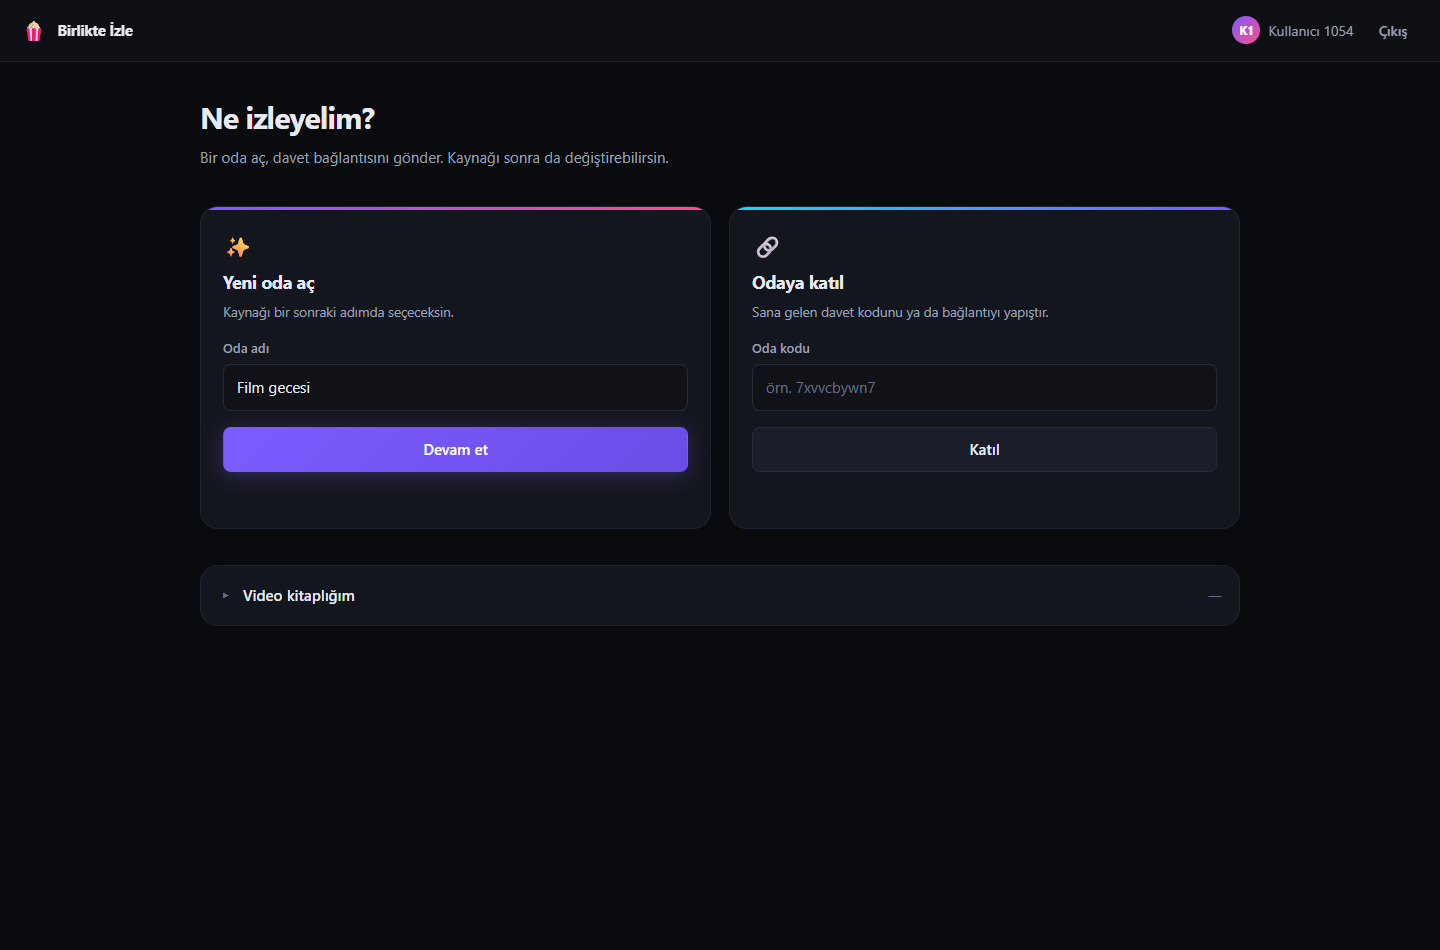
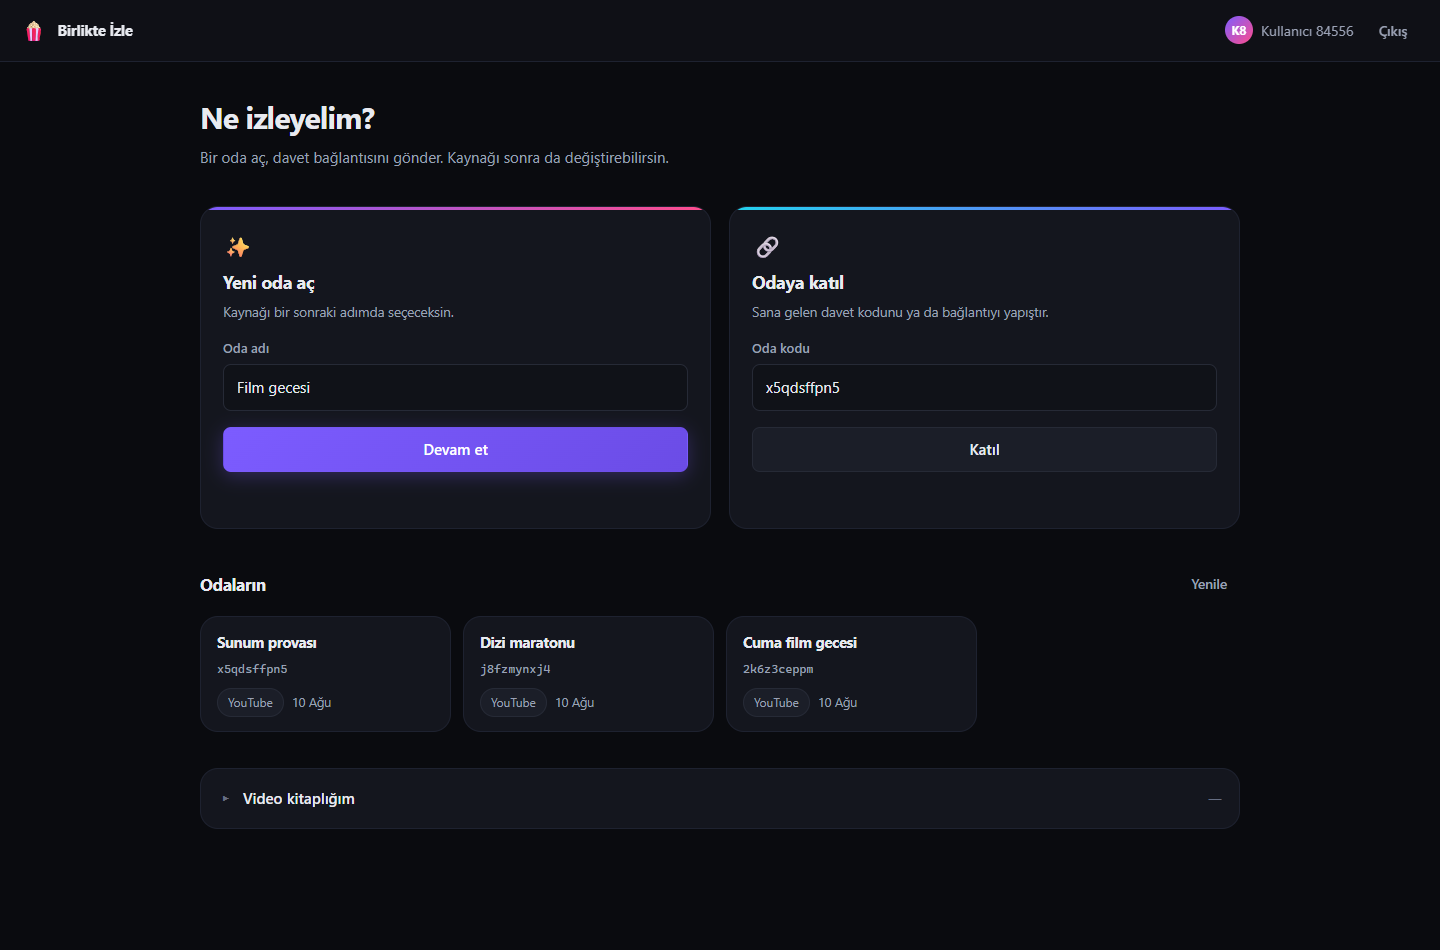
Ana ekranda oda listesi; saat testi ortamdan bağımsız hale getirildi
GET /api/rooms uçtan uca hazırdı ama arayüz onu hiç kullanmıyordu. Ana ekranın
altındaki boşluğa kullanıcının odaları geldi; karta tıklayınca doğrudan giriliyor.

Tarayıcı testindeki saat senkronu senaryosu |offset| < 500ms iddiasıyla ortamı
test ediyordu: Docker Desktop yeni açıldığında VM saati host'un ~1 saniye
gerisinde kalıyor ve senaryo düşüyordu. Ölçüm doğruydu, iddia yanlıştı --
mekanizma zaten keyfi kaymayı tolere etmek için var. Mutlak sınır yalnızca
saçma değerleri yakalayacak kadar gevşetildi; yerine ortamdan bağımsız gerçek
değişmez kondu: aynı sunucuyla konuşan iki sekmenin ölçtüğü offset birbirini
tutmalı (ölçülen fark 92ms).

browser-test 17 -> 19, toplam 79. README'de 15 kalmış eski sayı da düzeltildi.

diff --git a/public/app.js b/public/app.js
@@ -216,6 +216,7 @@ function enterHome() {
   $('who-avatar').textContent = initials(me.displayName);
   showScreen('home');
   void refreshVideos();
+  void refreshRooms();
 }
 
 $('btn-register').onclick = async () => {
@@ -331,13 +332,17 @@ $('btn-source-go').onclick = async () => {
   } catch (e) { setStatus('source-status', e.message, 'err'); }
 };
 
+async function enterRoom(s) {
+  await api('POST', `/api/rooms/${s}/join`);   // üyeysen zaten geçiyor
+  const { room } = await api('GET', `/api/rooms/${s}`);
+  await connect(s, room.name);
+}
+
 $('btn-join').onclick = async () => {
   const s = $('room-slug').value.trim();
   if (!s) return setStatus('room-status', 'Oda kodu gerekli', 'err');
   try {
-    await api('POST', `/api/rooms/${s}/join`);
-    const { room } = await api('GET', `/api/rooms/${s}`);
-    await connect(s, room.name);
+    await enterRoom(s);
   } catch (e) { setStatus('room-status', e.message, 'err'); }
 };
 
@@ -351,6 +356,7 @@ $('btn-leave').onclick = () => {
   $('video-strip').classList.add('is-hidden');
   slug = ''; state = null; seenVersion = 0;
   showScreen('home');
+  void refreshRooms();
 };
 
 // ═══════════════════════════════════════════════════════════ WebSocket
@@ -877,6 +883,40 @@ async function refreshVideos() {
     }
   } catch { /* oturum yoksa sessiz geç */ }
 }
+
+// ═══════════════════════════════════════════════════════════════ Odaların
+const SOURCE_LABEL = { youtube: 'YouTube', hls: 'Video' };
+
+function shortDate(iso) {
+  const d = new Date(iso);
+  return Number.isNaN(+d) ? '' : d.toLocaleDateString('tr-TR', { day: 'numeric', month: 'short' });
+}
+
+async function refreshRooms() {
+  try {
+    const { rooms } = await api('GET', '/api/rooms');
+    $('rooms-list').innerHTML = rooms.length === 0
+      ? '<li class="empty">Henüz odan yok — yukarıdan bir tane aç</li>'
+      : rooms.map((r) => `
+          <li class="room-card" data-enter="${escapeHtml(r.slug)}">
+            <strong>${escapeHtml(r.name)}</strong>
+            <span class="mono muted">${escapeHtml(r.slug)}</span>
+            <div class="room-meta">
+              <span class="chip">${SOURCE_LABEL[r.sourceType] ?? r.sourceType}</span>
+              <span class="muted small">${shortDate(r.createdAt)}</span>
+            </div>
+          </li>`).join('');
+
+    for (const li of $('rooms-list').querySelectorAll('[data-enter]')) {
+      li.onclick = async () => {
+        try { await enterRoom(li.getAttribute('data-enter')); }
+        catch (e) { setStatus('room-status', e.message, 'err'); }
+      };
+    }
+  } catch { /* oturum yoksa sessiz geç */ }
+}
+
+$('btn-rooms-refresh').onclick = () => void refreshRooms();
 
 async function useVideoInRoom(videoId) {
   if (!slug) return setStatus('upload-status', 'Önce bir odaya gir', 'err');

diff --git a/scripts/browser-test.ts b/scripts/browser-test.ts
@@ -220,7 +220,12 @@ try {
     const rtt = parseMs(await readCell(pageA, 't-rtt'));
     assert(Number.isFinite(offset), 'offset okunamadı');
     assert(Number.isFinite(rtt) && rtt >= 0, `RTT geçersiz: ${rtt}`);
-    assert(Math.abs(offset) < 500, `offset beklenenden büyük: ${offset}ms`);
+    // Offset'in mutlak büyüklüğüne dar bir sınır koymak ortamı test etmek olur:
+    // Docker Desktop'ın VM saati host'tan saniyelerce kayabiliyor ve bu mekanizma
+    // tam da onu ölçmek için var. Buradaki sınır yalnızca saçma değeri yakalar;
+    // senkronun doğruluğu iki sekmenin offset'i ve hedef pozisyonu ile ölçülüyor.
+    assert(Math.abs(offset) < 30_000, `offset saçma: ${offset}ms`);
+    assert(rtt < 5_000, `RTT saçma: ${rtt}ms`);
     return `offset ${offset}ms · rtt ${rtt}ms`;
   });
 
@@ -253,6 +258,20 @@ try {
     );
     assert(firstIsHost, 'host listenin başında değil');
     return '2 üye, tek host';
+  });
+
+  // İki sekme aynı makinede, aynı sunucuyla konuşuyor: mutlak kayma ne olursa
+  // olsun ölçtükleri offset birbirini tutmalı. Ortamdan bağımsız asıl ölçüt bu.
+  await check('İki sekmenin ölçtüğü saat farkı birbirini tutuyor', async () => {
+    await pageB.waitForFunction(
+      () => !document.querySelector('#t-offset')?.textContent?.includes('—'),
+      { timeout: 15_000, polling: 250 },
+    );
+    const a = parseMs(await readCell(pageA, 't-offset'));
+    const b = parseMs(await readCell(pageB, 't-offset'));
+    const delta = Math.abs(a - b);
+    assert(delta < 250, `sekmeler farklı offset ölçtü: A=${a}ms B=${b}ms Δ=${delta}ms`);
+    return `A=${a}ms B=${b}ms Δ=${delta.toFixed(1)}ms`;
   });
 
   // -------------------------------------------------------------- Oynatıcı
@@ -510,6 +529,23 @@ try {
     );
     assert(isHost, 'B host olmadı');
     return 'B → host';
+  });
+
+  await check('Odadan çıkınca oda ana ekranda listeleniyor', async () => {
+    await click(pageB, '#btn-leave');
+    await pageB.waitForFunction(
+      (s: string) => Array.from(document.querySelectorAll('#rooms-list [data-enter]'))
+        .some((li) => li.getAttribute('data-enter') === s),
+      { timeout: 10_000, polling: 250 },
+      slug,
+    );
+    // Karttan tıklayarak geri girilebiliyor mu?
+    await click(pageB, `#rooms-list [data-enter="${slug}"]`);
+    await pageB.waitForFunction(
+      () => document.querySelector('#conn-state')?.textContent?.startsWith('bağlı') === true,
+      { timeout: 15_000, polling: 250 },
+    );
+    return 'listelendi ve karttan girildi';
   });
 
   await check('Sayfada JavaScript hatası yok', async () => {

diff --git a/public/style.css b/public/style.css
@@ -412,6 +412,35 @@ input::placeholder { color: var(--text-faint); }
 .accent-b::before { background: linear-gradient(90deg, var(--accent-3), var(--accent)); }
 .card-icon { font-size: 22px; display: block; margin-bottom: 6px; }
 
+/* Odaların */
+.rooms-block { display: flex; flex-direction: column; gap: 14px; }
+.rooms-head { display: flex; align-items: center; gap: 12px; }
+.rooms-head h2 { font-size: 17px; letter-spacing: -.02em; }
+.rooms-head .btn { margin-left: auto; }
+
+.rooms-list {
+  list-style: none; display: grid; gap: 12px;
+  grid-template-columns: repeat(auto-fill, minmax(220px, 1fr));
+}
+.rooms-list .empty {
+  grid-column: 1 / -1; color: var(--text-faint); font-size: 13.5px;
+  border: 1px dashed var(--line); border-radius: var(--r-lg); padding: 22px; text-align: center;
+}
+
+.room-card {
+  display: flex; flex-direction: column; gap: 6px; cursor: pointer;
+  background: var(--surface); border: 1px solid var(--line-soft);
+  border-radius: var(--r-lg); padding: 14px 16px;
+  transition: border-color .15s, transform .15s, background .15s;
+}
+.room-card:hover {
+  border-color: color-mix(in srgb, var(--accent) 55%, transparent);
+  background: var(--surface-2); transform: translateY(-2px);
+}
+.room-card strong { font-size: 14.5px; letter-spacing: -.01em; }
+.room-card .mono { font-size: 12px; }
+.room-meta { display: flex; align-items: center; gap: 8px; margin-top: 4px; }
+
 /* Kitaplık katlanır */
 .library-fold {
   border: 1px solid var(--line-soft); border-radius: var(--r-lg);

diff --git a/public/index.html b/public/index.html
@@ -112,6 +112,14 @@
       </div>
     </div>
 
+    <section class="rooms-block">
+      <div class="rooms-head">
+        <h2>Odaların</h2>
+        <button id="btn-rooms-refresh" class="btn btn-quiet btn-sm">Yenile</button>
+      </div>
+      <ul id="rooms-list" class="rooms-list"></ul>
+    </section>
+
     <details class="library-fold">
       <summary>
         <span>Video kitaplığım</span>

diff --git a/README.md b/README.md
@@ -5,7 +5,7 @@
 [![CI](https://github.com/kutsibalci/watch-party-sync-engine/actions/workflows/ci.yml/badge.svg)](https://github.com/kutsibalci/watch-party-sync-engine/actions/workflows/ci.yml)
 ![Node](https://img.shields.io/badge/Node-24-3c873a)
 ![TypeScript](https://img.shields.io/badge/TypeScript-strict-3178c6)
-![Test](https://img.shields.io/badge/tests-77%20scenarios-3ecf8e)
+![Test](https://img.shields.io/badge/tests-79%20scenarios-3ecf8e)
 
 A real-time synchronisation engine for watching video together: YouTube, your own
 uploads or a shared screen — plus voice and video chat, a transcoding pipeline and
@@ -19,7 +19,7 @@ and on YouTube. That is a deliberate scope decision; the reasoning is
 > stateful real-time systems, asynchronous job processing and horizontal scaling
 > **with measured results**.
 
-**Status:** phases 0–4 complete · **77 automated tests** (including a real Chrome test) ·
+**Status:** phases 0–4 complete · **79 automated tests** (including a real Chrome test) ·
 type-check clean · production image runs as a non-root user
 
 <p align="center">
@@ -211,10 +211,10 @@ npm run smoke           # 13 · health, auth, error paths, security behaviour
 npm run sync-test       # 21 · sync engine, clock, versioning, tickets, host handover
 npm run pipeline-test   # 14 · queue mechanics + a real ffmpeg transcode
 npm run scale-test      # 12 · consistency across two instances
-npm run browser-test    # 15 · real Chrome, two tabs (watch it with HEADLESS=0)
+npm run browser-test    # 19 · real Chrome, two tabs (watch it with HEADLESS=0)
 ```
 
-**75 scenarios** in total, all of them running in CI as well.
+**79 scenarios** in total, all of them running in CI as well.
 
 The tests check more than "does it work" — they check **security behaviour**: whether
 the password hash leaks, whether the user-enumeration messages are identical, whether
